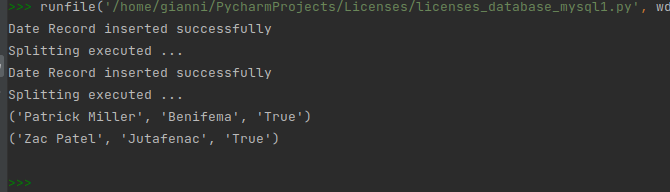
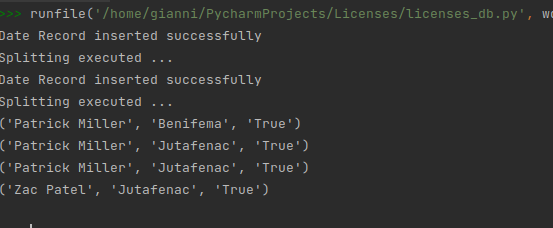
First commit

diff --git a/licenses_db.py b/licenses_db.py
@@ -65,7 +65,7 @@ def check_licenses(table1, table2):
  JOIN {1} ON {0}.product_licenses={1}.product_licenses """.format(table1,table2)
     c.execute(query_join)
 
-    query_user= """ SELECT DISTINCT user_name FROM new_table"""
+    query_user= """ SELECT user_name FROM new_table"""
 
 
     c.execute(query_user)
@@ -77,7 +77,7 @@ def check_licenses(table1, table2):
         users.append(item[0])
 
 
-    query_product_lic = """ SELECT DISTINCT product_name FROM new_table"""
+    query_product_lic = """ SELECT product_name FROM new_table"""
 
     c.execute(query_product_lic)
 
